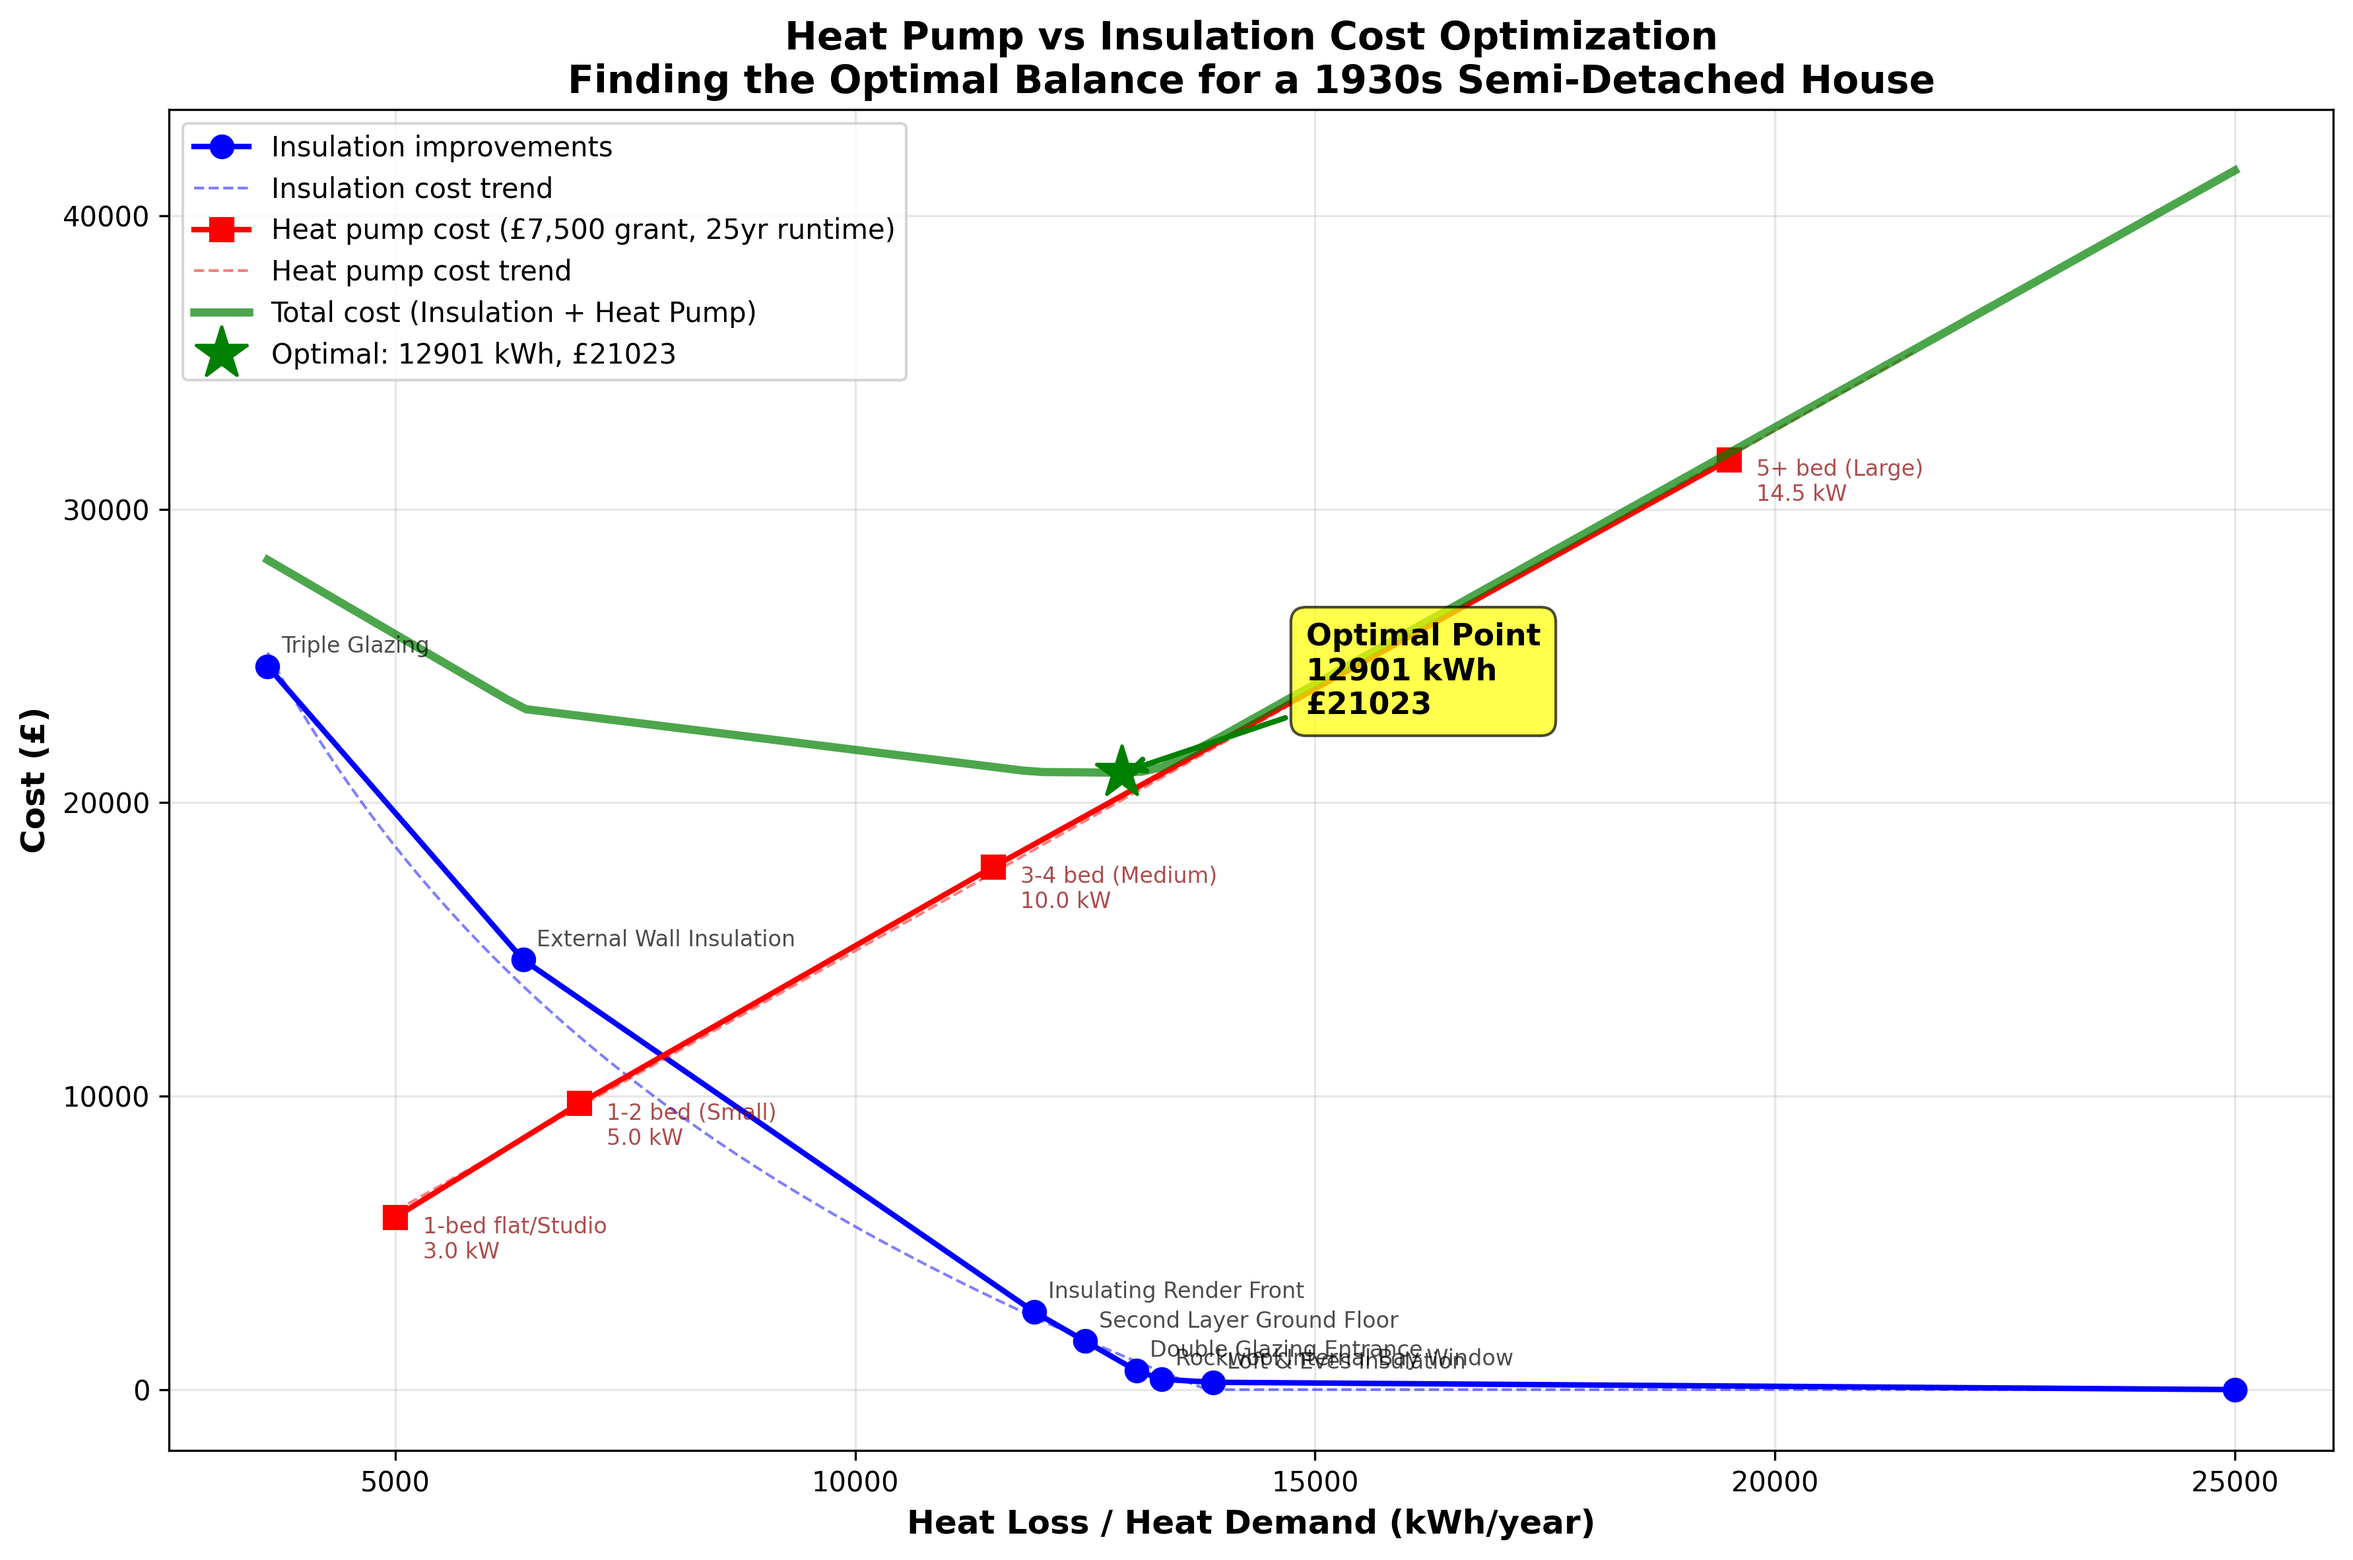
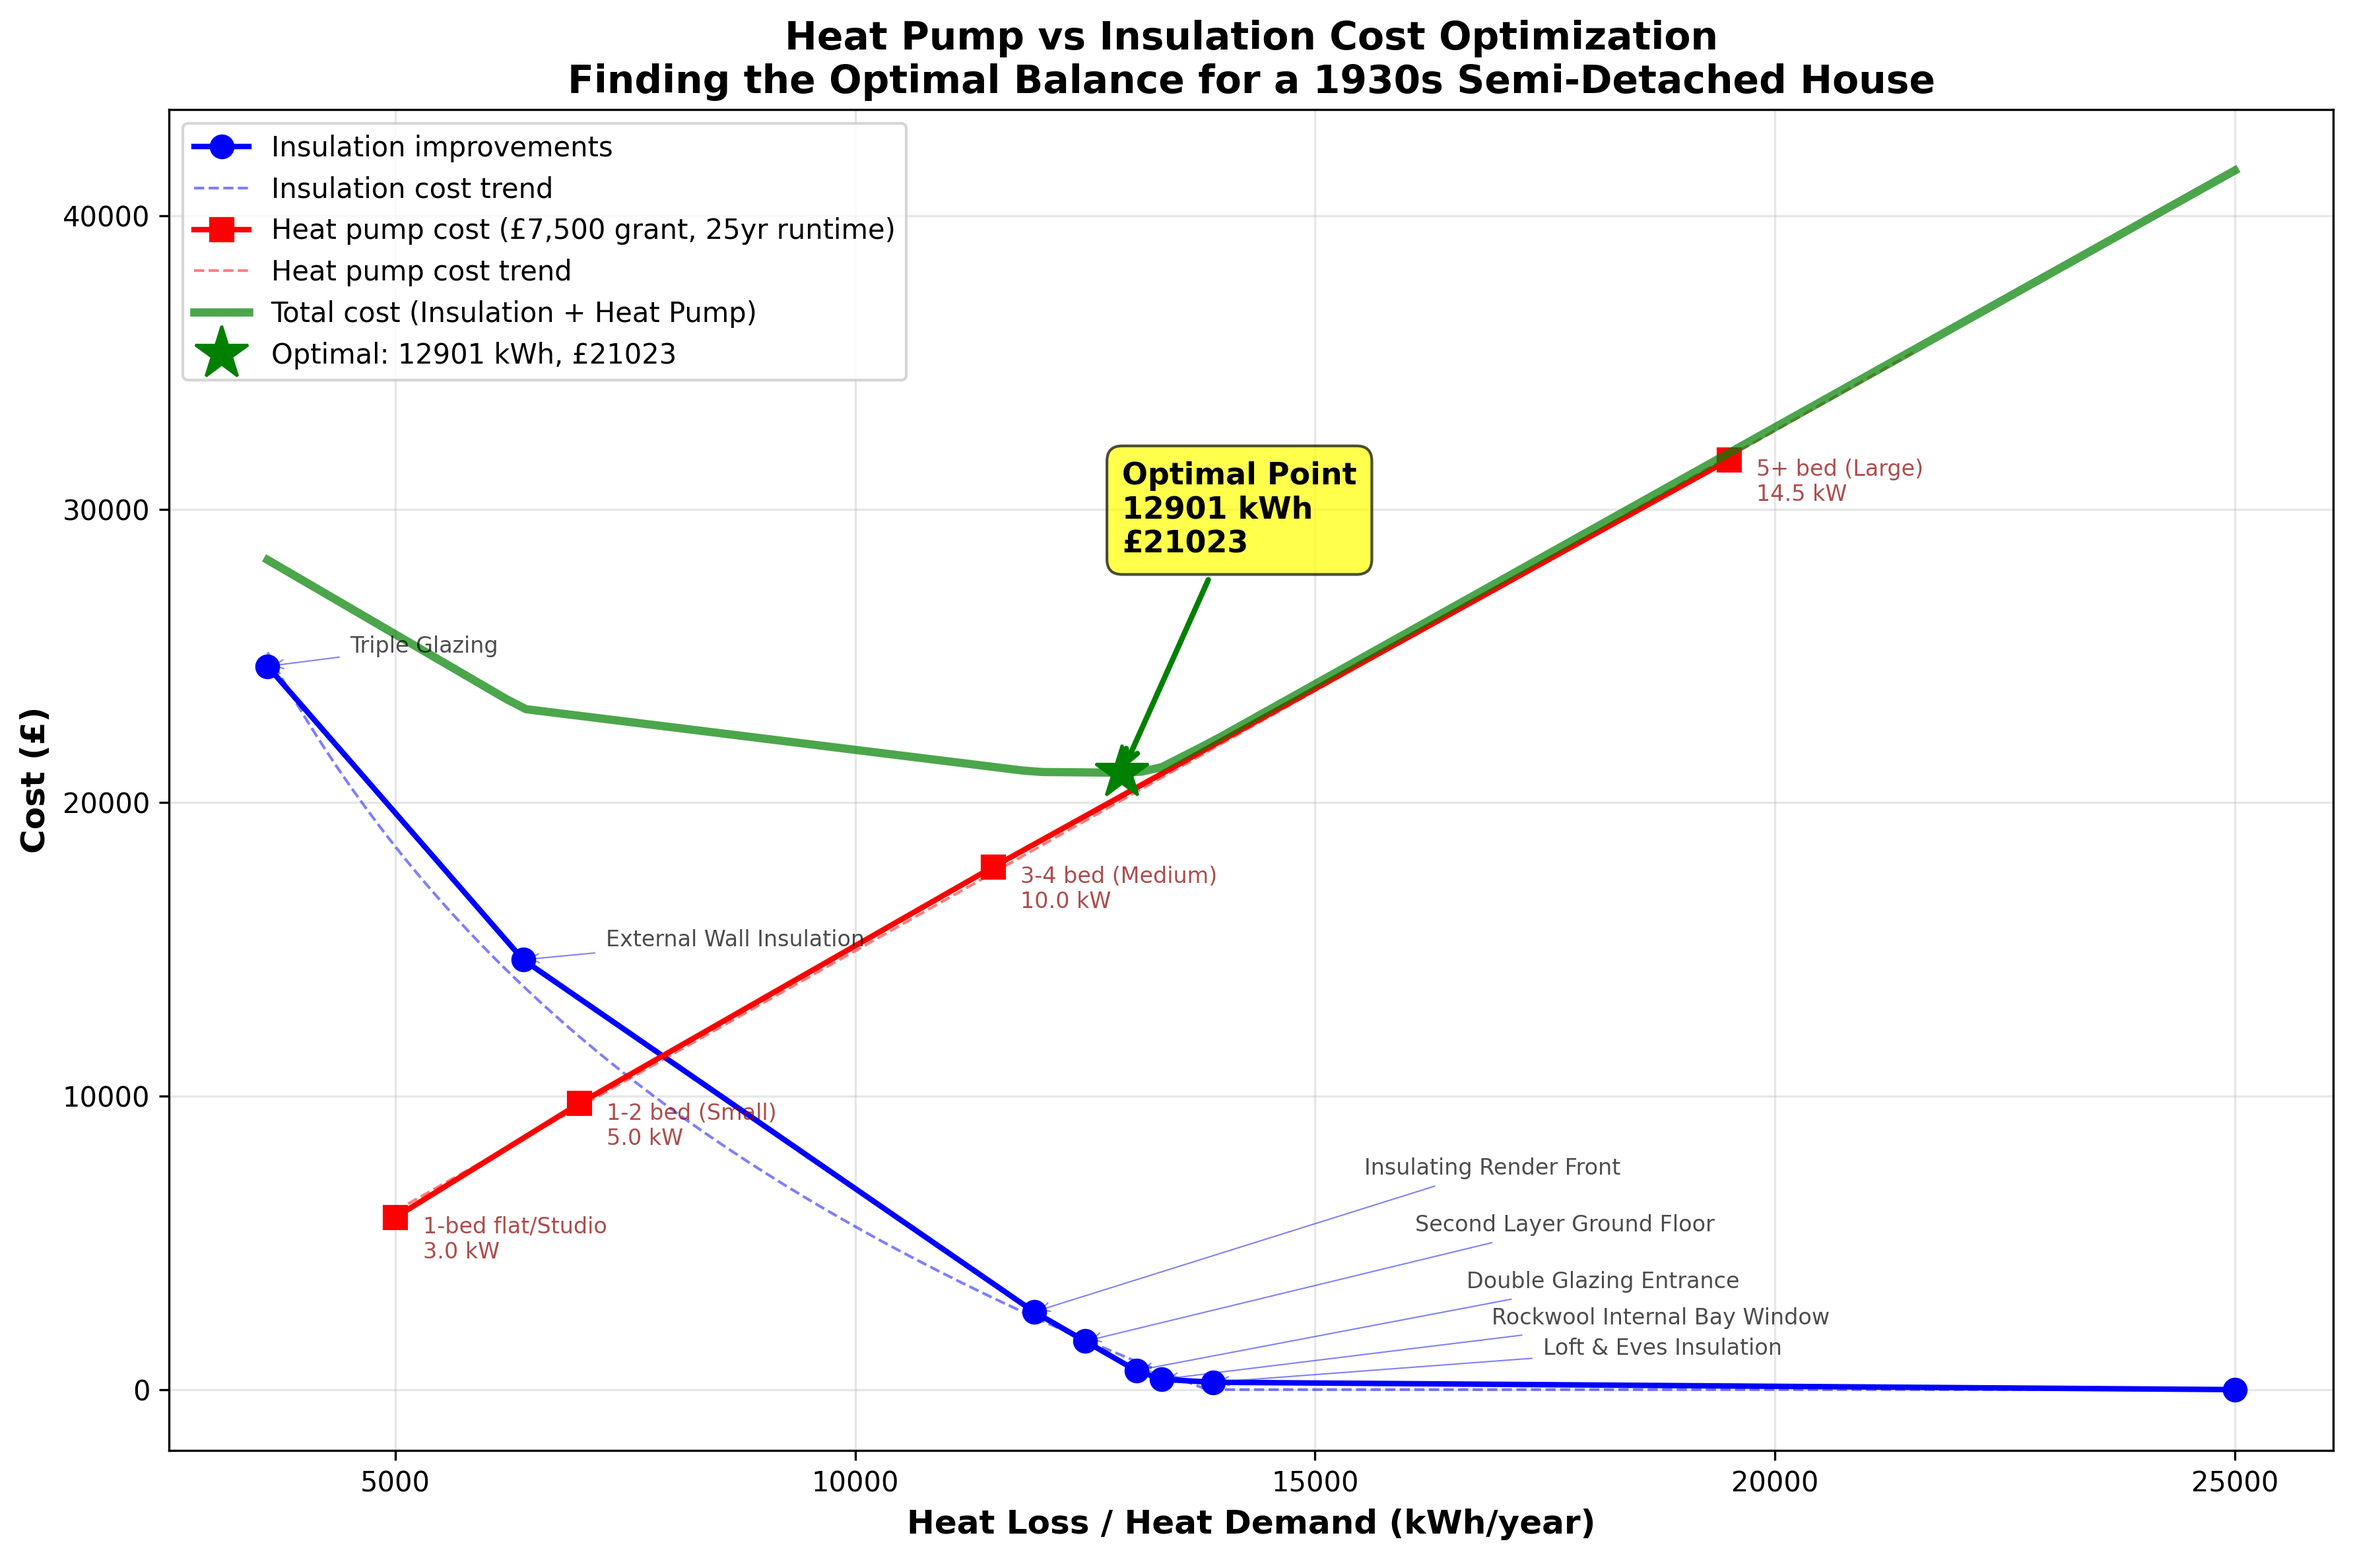
Optimise plots

diff --git a/src/heat_pump_cost/plotter.py b/src/heat_pump_cost/plotter.py
@@ -109,18 +109,34 @@ class CostPlotter:
         # Add annotation for optimal point
         ax.annotate(f'Optimal Point\n{min_heat_loss:.0f} kWh\n£{min_total_cost:.0f}',
                     xy=(min_heat_loss, min_total_cost),
-                    xytext=(min_heat_loss + 2000, min_total_cost + 2000),
+                    xytext=(0, 80), textcoords='offset points',
                     arrowprops=dict(arrowstyle='->', color='green', lw=2),
                     fontsize=11, fontweight='bold',
                     bbox=dict(boxstyle='round,pad=0.5', facecolor='yellow', alpha=0.7))
         
-        # Annotate home improvements
+        # Annotate home improvements with varied positioning for better readability
+        # Define offset patterns that follow the curve progression with minimal y offset
+        offset_patterns = [
+            (120, 10),   # First improvement (loft) - right, minimal up
+            (120, 20),   # Second (bay window) - right, slightly up
+            (120, 30),   # Third (entrance glazing) - right, a bit more up
+            (120, 40),   # Fourth (ground floor) - right, continuing up
+            (120, 50),   # Fifth (render) - right, slightly higher
+            (30, 5),     # Sixth (external wall) - small x offset, minimal up
+            (30, 5),     # Seventh (triple glazing) - small x offset, minimal up
+        ]
+        
         for i, name in enumerate(improvement_names):
             if i > 0:  # Skip "Start" as it's at the starting point
+                # Use cycling offset pattern
+                offset_idx = (i - 1) % len(offset_patterns)
+                offset = offset_patterns[offset_idx]
+                
                 ax.annotate(name.title(), 
                            xy=(heat_loss[i], insulation_cost[i]),
-                           xytext=(5, 5), textcoords='offset points',
-                           fontsize=8, alpha=0.7)
+                           xytext=offset, textcoords='offset points',
+                           fontsize=8, alpha=0.7,
+                           arrowprops=dict(arrowstyle='->', lw=0.5, alpha=0.5, color='blue'))
         
         # Annotate heat pumps
         if 'property_types' in hp_arrays:
